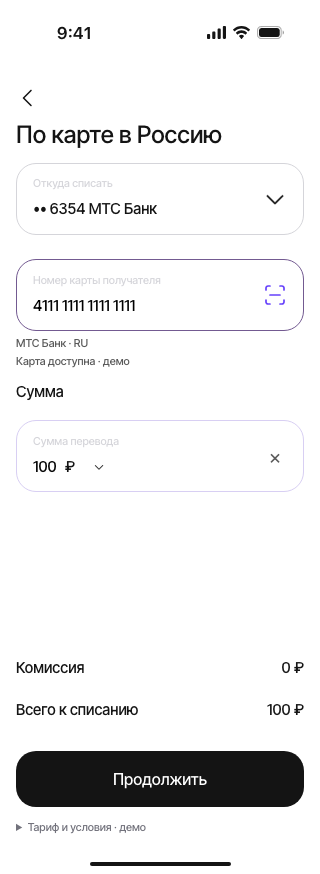
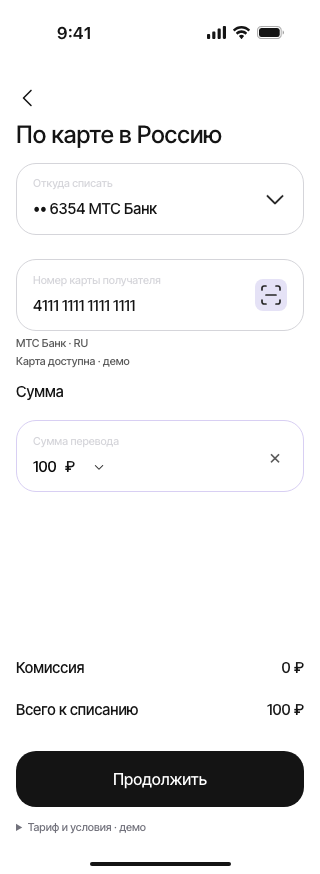
Match recipient card input and all states to Figma

Changed region(s): [[0.7812, 0.3089, 0.9062, 0.3707], [0.9375, 0.3089, 0.9688, 0.3707], [0.0312, 0.3089, 0.0625, 0.3707]]

diff --git a/src/authorized-transfer.js b/src/authorized-transfer.js
@@ -40,6 +40,7 @@ export function createAuthorizedTransfer({ cards, card, recipient, transferKind,
   let lookupTimer;
   let availability = savedRecipient ? demoCardAvailability('', { saved: true }) : null;
   const international = transferKind === 'abroad';
+  if(!international)screen.classList.add('card-transfer--russia');
   const sourceName = c => c.id === 'debit' ? 'МТС Банк' : c.currency === 'USD' ? 'International' : c.name;
   const sourceOption = c => `<button type="button" data-source="${escapeHTML(c.id)}" aria-pressed="${source?.id === c.id}" title="${c.balance == null ? 'Баланс недоступен' : 'Доступно '+money(c.balance,c.currency)}"><span class="source-bank-icon ${c.id === 'debit' ? '' : 'is-international'}"><img src="./assets/images/${c.id === 'debit' ? 'card-bank-mts.png' : 'card-bank-international.svg'}" alt=""></span><span class="source-option-copy"><span>${escapeHTML(sourceName(c))} •• ${escapeHTML(c.last4)}</span><small>${c.external ? 'Баланс недоступен' : c.id === 'debit' ? 'МИР' : 'Mastercard'}</small></span><img class="source-radio" src="./assets/images/${source?.id === c.id ? 'card-radio-selected.svg' : 'card-radio-empty.svg'}" alt=""></button>`;
   const title = transferKind === 'abroad' ? 'По карте за границу' : 'По карте в Россию';
@@ -53,7 +54,7 @@ export function createAuthorizedTransfer({ cards, card, recipient, transferKind,
           <div id="source-options" class="source-options" hidden>${cards.map(sourceOption).join('')}<button type="button" data-add-card><img class="source-add-icon" src="./assets/images/card-add.svg" alt=""><span class="source-option-copy"><span>Добавить новую</span><small>Visa, Mastercard</small></span><img class="source-radio" src="./assets/images/card-radio-empty.svg" alt=""></button></div>
         </div>
       </section>
-      <section class="destination-section"><div class="destination-field"><label for="destination-number">Номер карты получателя</label><input id="destination-number" inputmode="numeric" autocomplete="off" placeholder="0000 0000 0000 0000" aria-describedby="destination-error"><button type="button" class="scan-card" aria-label="Сканировать карту"><img src="./assets/images/card-scan.svg" alt=""></button></div><p id="destination-error" class="field-error" role="alert"></p><p class="recipient-bank" role="status"></p><p class="card-availability quote-note" role="status" aria-live="polite"></p></section>
+      <section class="destination-section"><div class="destination-field recipient-card-field"><label for="destination-number">Номер карты получателя</label><input id="destination-number" inputmode="numeric" autocomplete="off" placeholder="0000 0000 0000 0000" aria-describedby="destination-error"><button type="button" class="scan-card" aria-label="Сканировать карту"><img src="./assets/images/${international ? 'card-scan.svg' : 'recipient-scan.svg'}" alt=""></button></div><p id="destination-error" class="field-error" role="alert"></p><p id="recipient-bank-status" class="recipient-bank" role="status"></p><p id="recipient-card-status" class="card-availability quote-note" role="status" aria-live="polite"></p></section>
       <section class="inline-amount"><h2>Сумма</h2><div class="destination-field amount-field"><label for="transfer-amount">Сумма перевода</label><div class="amount-input-row"><input id="transfer-amount" class="transfer-amount-inline" inputmode="decimal" placeholder="0" aria-describedby="amount-error"><span class="currency-picker"><select class="amount-currency currency-select" aria-label="Валюта перевода"><option value="RUB" aria-label="Российский рубль">₽</option><option value="USD" aria-label="Доллар США">$</option><option value="EUR" aria-label="Евро">€</option></select><img src="./assets/images/card-source-chevron.svg" alt="" aria-hidden="true"></span></div><button type="button" class="clear-amount" aria-label="Очистить сумму" hidden>×</button></div><p id="amount-error" class="field-error" role="alert"></p><button type="button" class="add-shortfall" hidden></button></section><div class="transfer-footer"><div class="inline-quote" hidden>${international ? '<dl class="quote-summary international-summary"><dt>Курс перевода</dt><dd data-rate>—</dd><dt>Получатель получит</dt><dd data-receive>—</dd></dl>' : ''}<dl class="amount-conversion" hidden><dt>Демо-курс</dt><dd data-amount-rate></dd><dt>Сумма в рублях</dt><dd data-amount-rubles></dd></dl><dl class="quote-summary"><dt>Комиссия</dt><dd data-fee>—</dd><dt>Всего к списанию</dt><dd data-total>—</dd></dl></div>
       <div class="recipient-next"><button class="authorized-continue" disabled>Продолжить</button></div>
       </div>
@@ -159,7 +160,7 @@ export function createAuthorizedTransfer({ cards, card, recipient, transferKind,
   if(savedRecipient) { input.value=savedRecipient.subtitle; input.readOnly=true; }
   input.onfocus=()=>{if(savedRecipient && input.readOnly){ savedRecipient=null;input.readOnly=false;input.value='';detectBank();update();}};
   input.oninput=()=>{input.value=input.value.replace(/\D/g,'').slice(0,19).replace(/(.{4})/g,'$1 ').trim();error.textContent='';input.setAttribute('aria-invalid','false');detectBank();update();scheduleRecipientOffer();};
-  input.onblur=()=>{if(input.value&&!savedRecipient&&!validCard(input.value)){error.textContent='Проверьте номер карты';input.setAttribute('aria-invalid','true');}};
+  input.onblur=()=>{if(input.value&&!savedRecipient&&!validCard(input.value)){error.textContent=international?'Проверьте номер карты':'Неверный номер карты';input.setAttribute('aria-invalid','true');}};
   const recipientSheet=document.createElement('dialog');
   recipientSheet.className='save-recipient-sheet';
   recipientSheet.innerHTML='<form novalidate><div class="sheet-handle"></div><div class="sheet-heading"><h2>Добавить получателя?</h2><button type="button" class="close-recipient-sheet" aria-label="Закрыть">×</button></div><p class="save-card-caption"></p><label for="recipient-display-name">Имя получателя</label><input id="recipient-display-name" maxlength="40" value="Новый получатель"><p class="field-error" role="alert"></p><button class="authorized-continue">Добавить</button><button type="button" class="skip-recipient">Не сейчас</button></form>';

diff --git a/src/styles.css b/src/styles.css
@@ -1161,3 +1161,19 @@ body:has(.card-transfer) .home-indicator { height:calc(32px + env(safe-area-inse
 .currency-select:focus-visible { outline:2px solid #735a91; outline-offset:1px; }
 .card-transfer .amount-conversion { display:grid; grid-template-columns:1fr auto; gap:24px 12px; margin:0 0 24px; padding-bottom:16px; border-bottom:1px solid #ebebee; }
 .amount-conversion dd { margin:0; text-align:right; }
+
+/* Recipient card — Figma 137:4095 and Default/Filled/Hover/Error variants. */
+.card-transfer--russia .recipient-card-field { border-color:var(--c2c-border-default); }
+.card-transfer--russia .recipient-card-field:focus-within { border-color:var(--c2c-border-default); }
+.card-transfer--russia .recipient-card-field input { color:#141414; width:calc(100% - 40px); }
+.card-transfer--russia .recipient-card-field .scan-card { right:16.5px; top:50%; transform:translateY(-50%); width:32px; height:32px; border-radius:8px; display:flex; align-items:center; justify-content:center; }
+.card-transfer--russia .recipient-card-field .scan-card img { width:24px; height:24px; }
+.card-transfer--russia .recipient-card-field.is-filled .scan-card,
+.card-transfer--russia .recipient-card-field:has(input[aria-invalid=true]) .scan-card { background:#e5e2f6; }
+.card-transfer--russia .recipient-card-field:has(input[aria-invalid=true]) { border-color:#b83d45; }
+.card-transfer--russia .recipient-card-field:has(input[aria-invalid=true]) input { color:#b83d45; }
+.card-transfer--russia .recipient-card-field:has(input[aria-invalid=true]) label { color:#141414; }
+.card-transfer--russia .destination-section>#destination-error { margin:4px 18px 0; font:500 11px/16px 'Inter Tight',sans-serif; }
+@media(hover:hover) and (pointer:fine) {
+  .card-transfer--russia .recipient-card-field:hover .scan-card { background:#e5e2f6; }
+}

diff --git a/README.md b/README.md
@@ -114,3 +114,9 @@ npm test
 По заданию используются фиксированные демонстрационные курсы: 1 USD = 82,70 RUB, 1 EUR = 90,98 RUB. Для долларовой/евровой суммы видны демо-курс и рублёвый эквивалент. Комиссия, нехватка средств и итоговое списание рассчитываются в рублях. Пример: 100 $ → 8 270 ₽ + 124,05 ₽ комиссии = 8 394,05 ₽. Подтверждение показывает введённую валюту и пересчёт, операция сохраняет рублёвую сумму и исходные валюту/сумму/курс. Курсы не запрашиваются у банка и не являются текущими рыночными котировками.
 
 Проверки: `npm test` включает конвертацию и округление; `node tests/amount-currency.mjs` при запущенном сервере проверяет выбор, курсы, комиссию, недостаток средств, адаптивность и завершение перевода. Снимки: `screenshots/transfer-currency-*.png`.
+
+## Поле карты получателя — 137:4095
+
+Для «По карте в Россию» поле и его состояния сверены с `137:4095` и набором `101:337` (Default, Filled, Hover, Error). Серая граница, исходная иконка сканирования 24 × 24 в кнопке 32 × 32, светлая подпись заполненного поля, красные граница/номер и сообщение «Неверный номер карты» при ошибке. Кнопка получает лавандовую подложку при наведении, заполнении и ошибке; в исходном пустом экземпляре `137:4095` подложка прозрачная. Сканирование открывает демонстрационное окно и не отправляет форму.
+
+Проверка: `node tests/recipient-field-figma.mjs` при запущенном сервере. Визуальные состояния, координаты и размеры, недоступная карта, исправление номера, комиссия и четыре ширины. Снимки: `screenshots/recipient-default.png`, `screenshots/recipient-filled.png`, `screenshots/recipient-hover.png`, `screenshots/recipient-error.png`.
